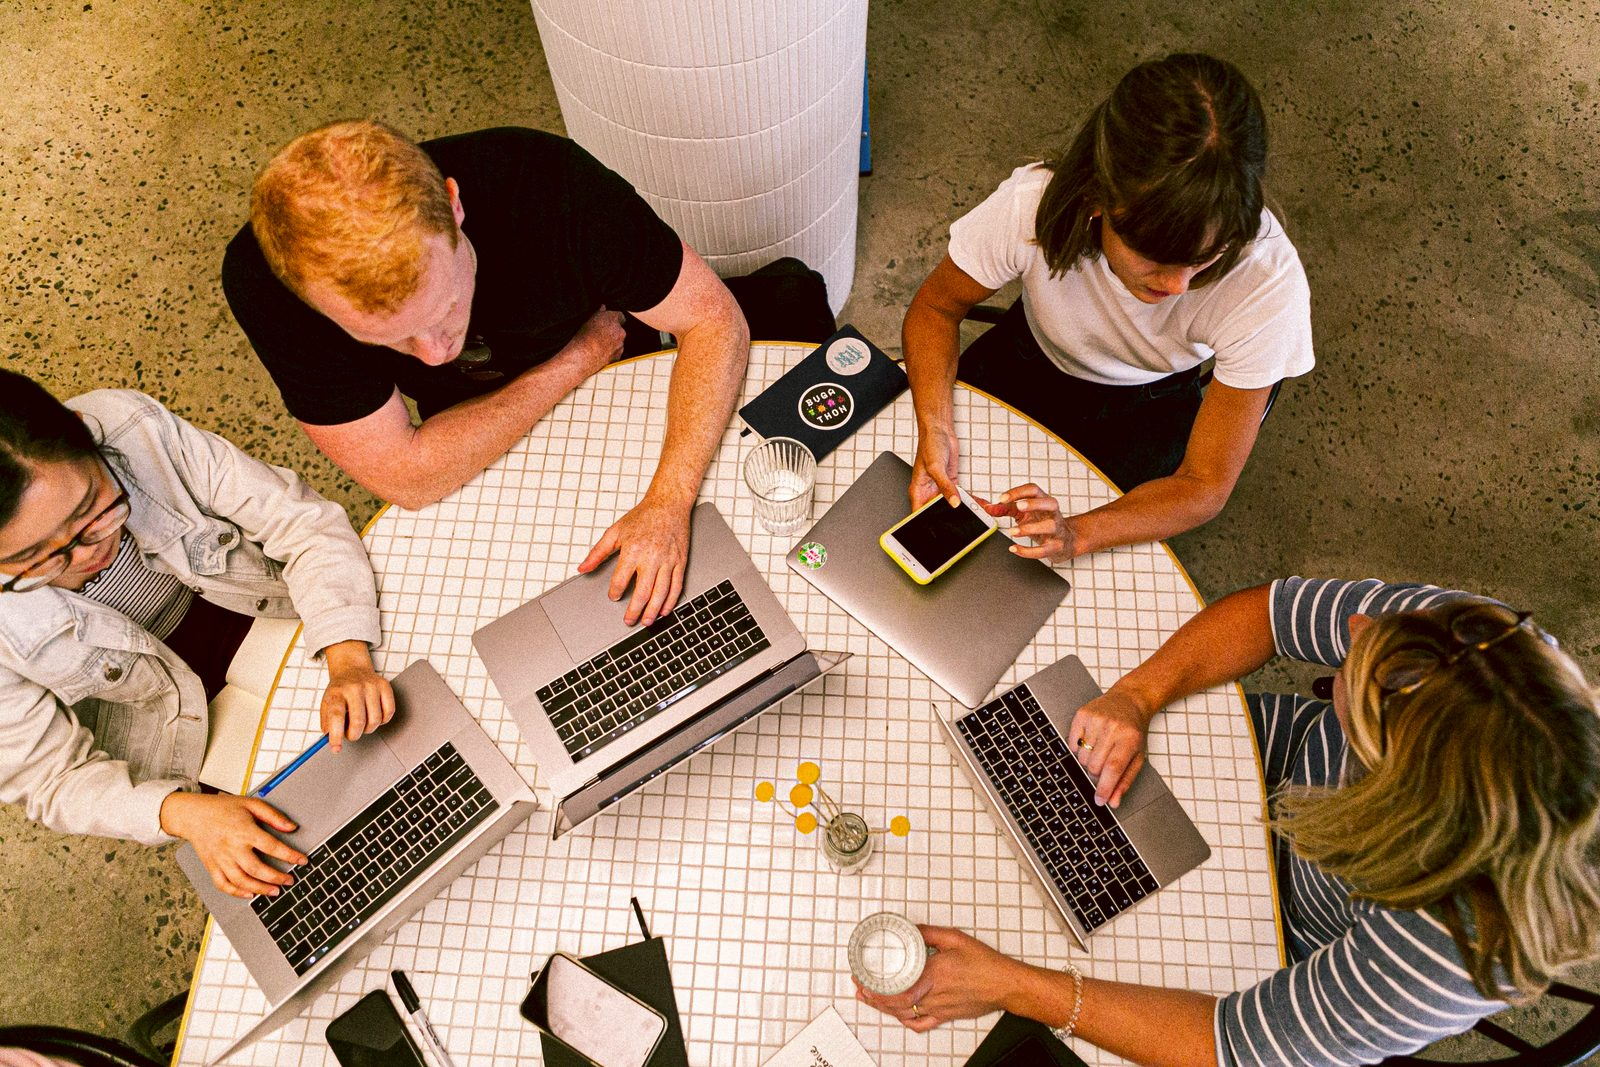
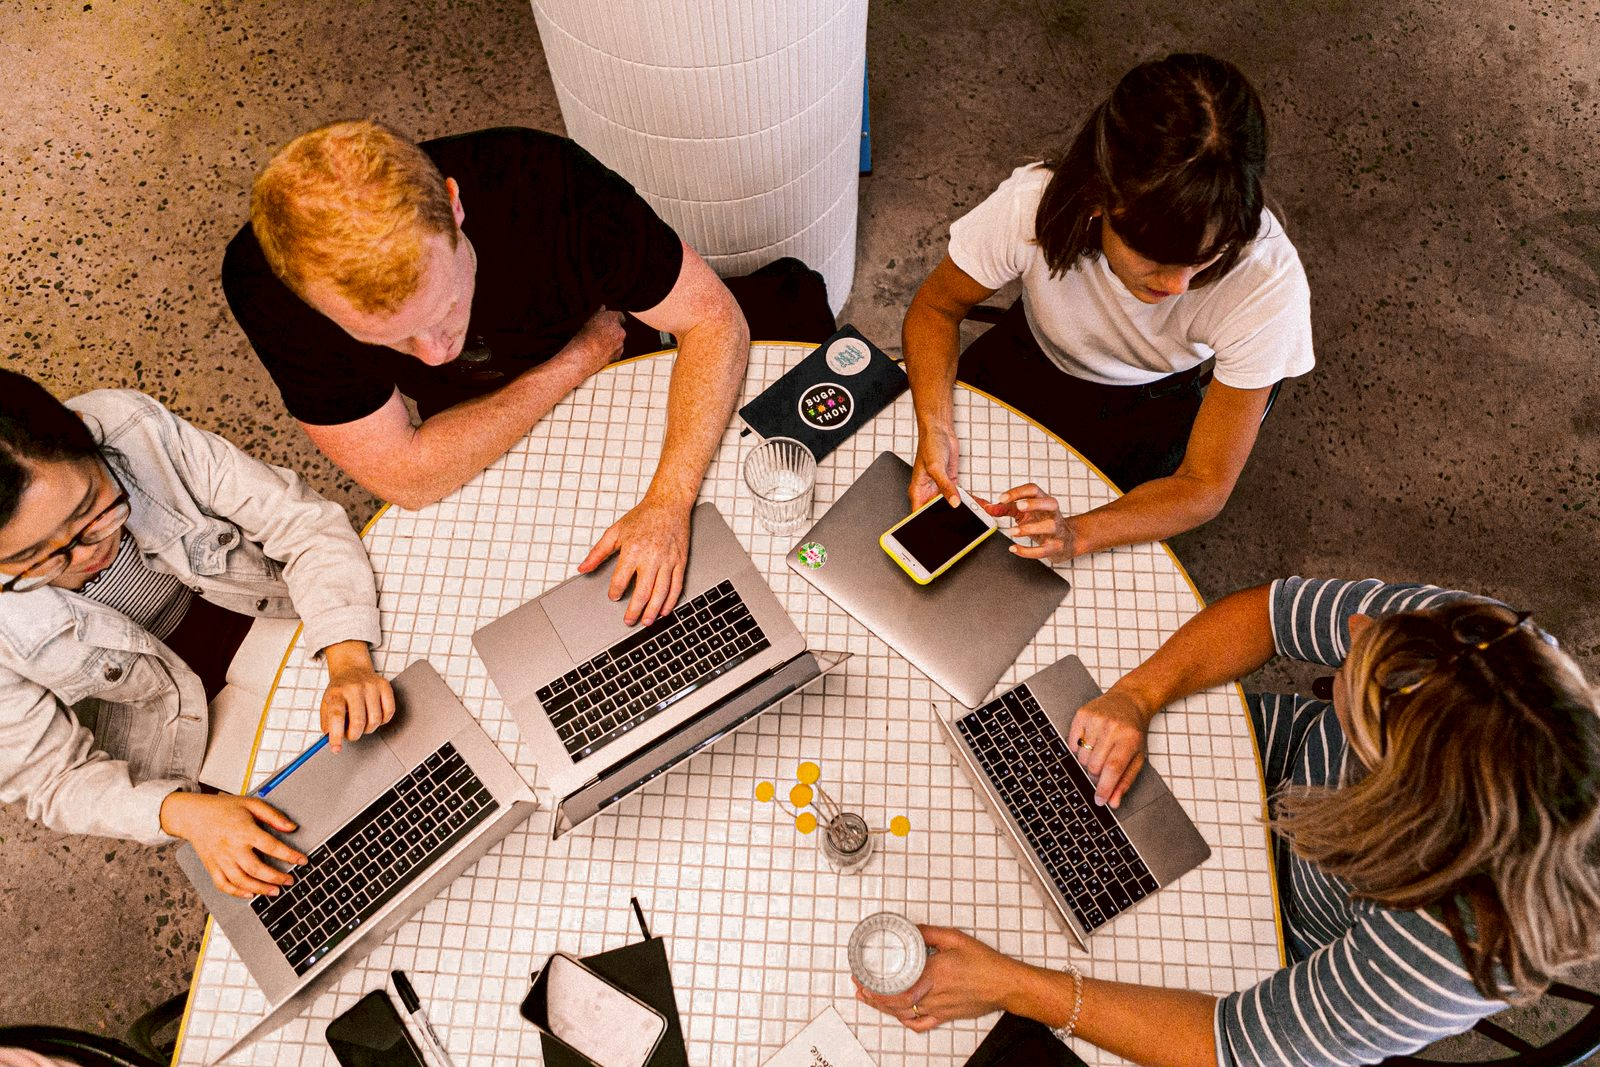
blackbox: earthier AI Lab photo; top-row caption 01 reads AI 101

diff --git a/index.html b/index.html
@@ -246,7 +246,7 @@
     <div class="trip">
       <figure>
         <img src="images/tall-2.jpg" alt="A team seated together in a bright room during a session" width="800" height="1067">
-        <figcaption><a class="up link arrow" href="#toolkit">AI Fundamentals</a><span class="muted up">01</span></figcaption>
+        <figcaption><a class="up link arrow" href="#toolkit">AI 101</a><span class="muted up">01</span></figcaption>
       </figure>
       <figure>
         <img src="images/ai-lab.jpg" alt="Four people working on laptops around a round tiled table, seen from above" width="1600" height="1067">
